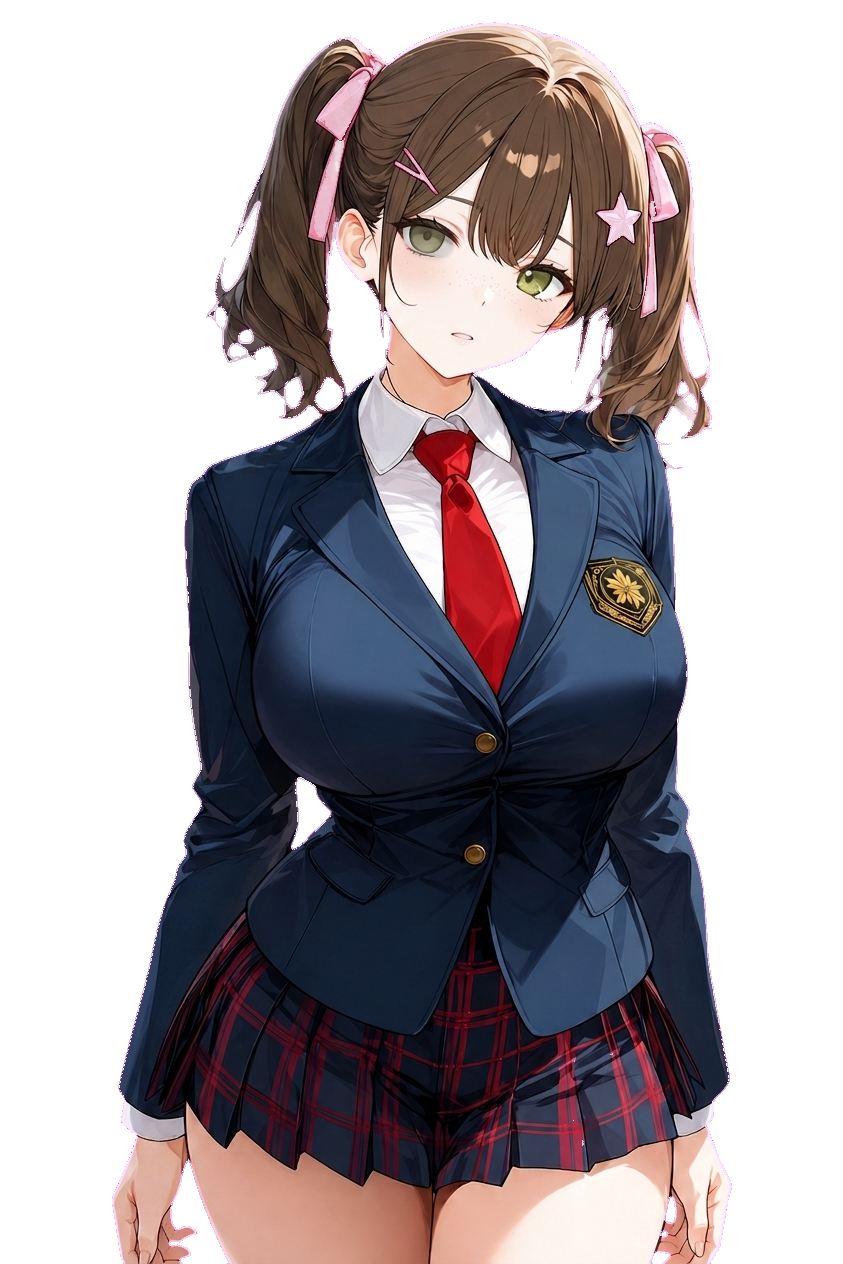
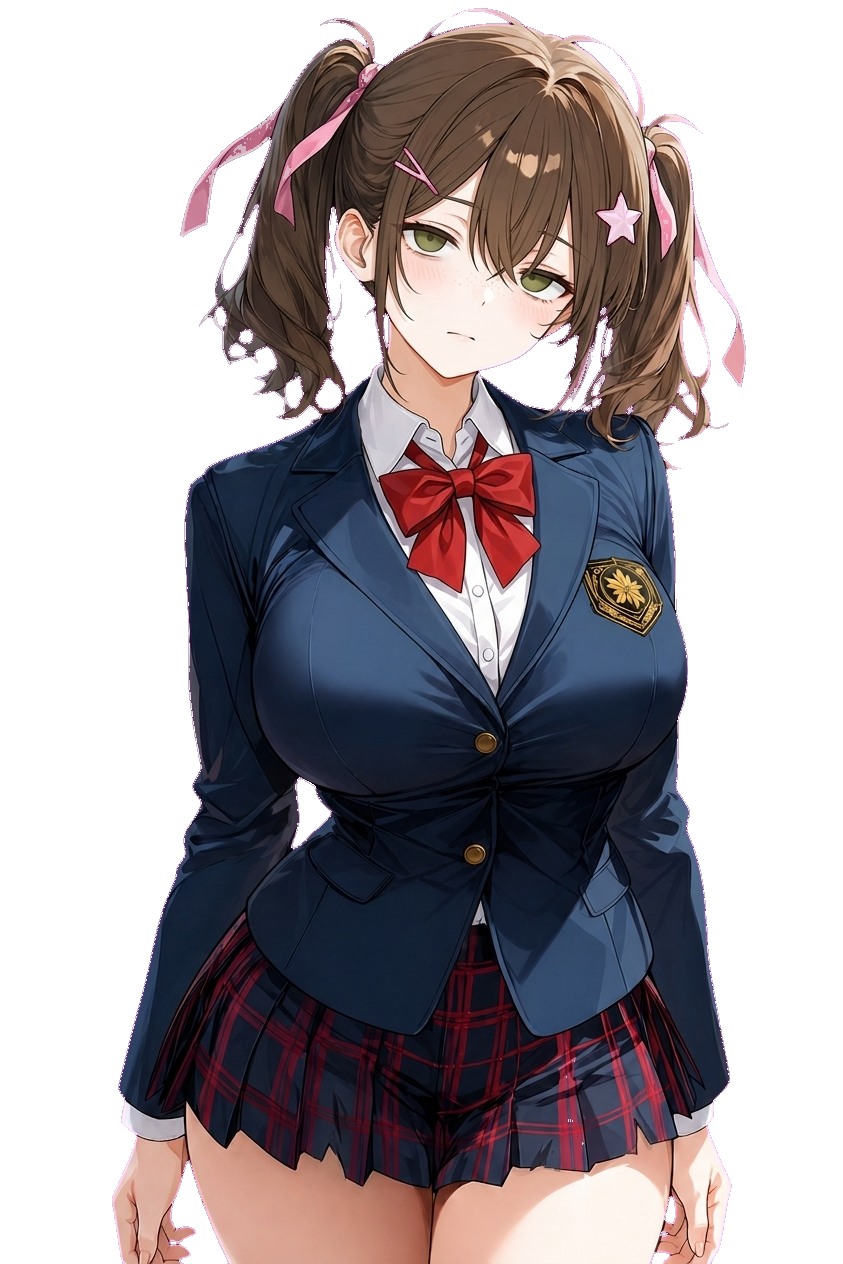
새로운 캐릭터 표현 이미지 추가 및 기존 이미지 수정

diff --git a/scripts/generate_expressions.py b/scripts/generate_expressions.py
@@ -56,8 +56,8 @@ CHARACTERS = {
             'sea_cry': '눈가에 큰 눈물 한 방울이 맺혀 볼을 타고 흘러내리는 모습, 눈썹이 슬프게 중앙으로 모임, 입꼬리가 살짝 내려가 슬픈 표정, 시선은 정면 (피부색·조명·배경은 레퍼런스와 완전 동일).',
             'sea_hurt': '눈에 눈물이 고여 수면 위 빛처럼 흔들림, 아랫입술을 세게 깨물며 울음을 참는 모습, 배신당한 듯 상처받은 눈빛.',
             'sea_angry': '양볼을 부풀린 복어 같은 화난 표정, 깊이 찡그린 미간, 눈이 부릅뜨며 눈꼬리가 올라감, 코믹하지만 진심으로 속상한 느낌.',
-            'sea_yandere': '오른쪽 리본이 풀려 반쯤 내려옴, 비대칭 동공 한쪽이 작게 수축 한쪽은 크게 확대, 입이 평소보다 매우 넓게 벌어진 큰 미소, 고개를 왼쪽으로 25도 부자연스럽게 기울임, 왼손은 정면을 향해 부드럽게 내미는 자세 (단, 피부색·조명·배경은 레퍼런스와 완전 동일).',
-            'sea_dark': '왼쪽 눈은 하이라이트가 완전히 사라진 공허한 눈동자, 미소가 완전히 사라진 무표정 힘이 풀린 입술, 양팔이 힘없이 내려간 의욕 상실 자세 (단, 피부색·조명·배경은 레퍼런스와 완전 동일, 어둠/그림자 추가 금지).',
+            'sea_yandere': '양쪽 리본이 모두 풀려 한쪽은 어깨까지 흘러내리고 다른 쪽은 머리에 간신히 매달림, 별 헤어핀이 비스듬히 기울어짐, 트윈테일 머리카락이 사방으로 헝클어지고 잔머리가 얼굴 위로 흘러내림, 양쪽 눈동자 크기가 극단적으로 비대칭 한쪽은 바늘구멍처럼 매우 작게 한쪽은 홍채를 가득 채울 만큼 크게 확대, 흰자가 평소보다 더 많이 보이도록 눈을 부릅뜸, 입이 귀까지 닿을 듯 양 끝이 부자연스럽게 위로 끌어당겨진 매우 넓은 미소, 입꼬리가 평소 위치보다 두 배 이상 위로 올라감, 고개를 왼쪽으로 약 40도 부자연스럽게 기울임 목 근육이 미세하게 보일 정도, 양손을 모두 정면으로 내밀어 손가락을 갈고리처럼 살짝 구부린 자세, 블레이저 칼라가 한쪽으로 비뚤어지고 빨간 리본 타이가 풀려 비대칭으로 흘러내림, 셔츠 단추 하나가 풀린 듯 옷매무새가 흐트러짐 (단, 피부색·조명·배경·카메라 각도는 레퍼런스와 완전 동일).',
+            'sea_dark': '양쪽 트윈테일 리본이 풀어져 늘어지고 트윈테일 자체가 헝클어져 잔머리가 얼굴 양옆을 커튼처럼 덮음 앞머리가 길게 내려와 눈썹을 가림, 별 헤어핀이 비뚤어짐, 양쪽 눈을 반쯤 감은 듯 게슴츠레하게 뜸 눈꺼풀이 무겁게 처짐, 양쪽 눈동자에서 하이라이트와 별 반사가 완전히 사라져 단색의 평평한 헤이즐-그린 색만 남은 유리구슬 같은 죽은 눈, 동공이 평소보다 작게 수축되어 흰자가 더 보임, 시선의 초점이 카메라를 통과해 먼 곳을 바라보는 듯한 텅 빈 눈빛, 눈썹이 무관심하게 평평함, 입을 완전히 닫은 일자 입술 입꼬리가 미세하게 아래로 처짐 표정이 사라진 굳은 무표정, 고개가 살짝 앞으로 숙여지고 한쪽으로 기울어짐, 양어깨가 비대칭으로 한쪽이 눈에 띄게 더 처짐, 양팔이 힘없이 옆으로 늘어진 자세 손가락이 부자연스럽게 살짝 구부러짐, 빨간 리본 타이가 비뚤어지고 블레이저 단추 하나가 풀어진 흐트러진 옷매무새 (단, 피부색·조명·배경·카메라 각도는 레퍼런스와 완전 동일, 입을 벌리지 말 것, 놀란 표정 절대 금지, 죽은 듯한 무표정만).',
             'sea_vulnerable': '밤색 분홍 리본 트윈테일이 축 처짐, 헤이즐-그린 눈이 크게 떠져 동공이 떨리듯 흔들림 눈가에 눈물이 고여 반사됨, 양팔로 자기 몸을 감싸 안듯 교차한 방어적 자세, 입술이 미세하게 떨리는 모습 울음을 꾹 참고 있지만 무너지기 직전, 평소의 당당함이 사라진 연약하고 작아진 느낌.',
             'sea_broken_smile': '헤이즐-그린 눈에 눈물이 가득 고여 있지만 흘리지 않음 별 하이라이트가 눈물에 일그러짐, 입꼬리를 억지로 위로 끌어올린 무너진 미소 웃고 있지만 눈은 울고 있음, 눈과 입의 감정이 정반대인 비극적 표정.',
         }
